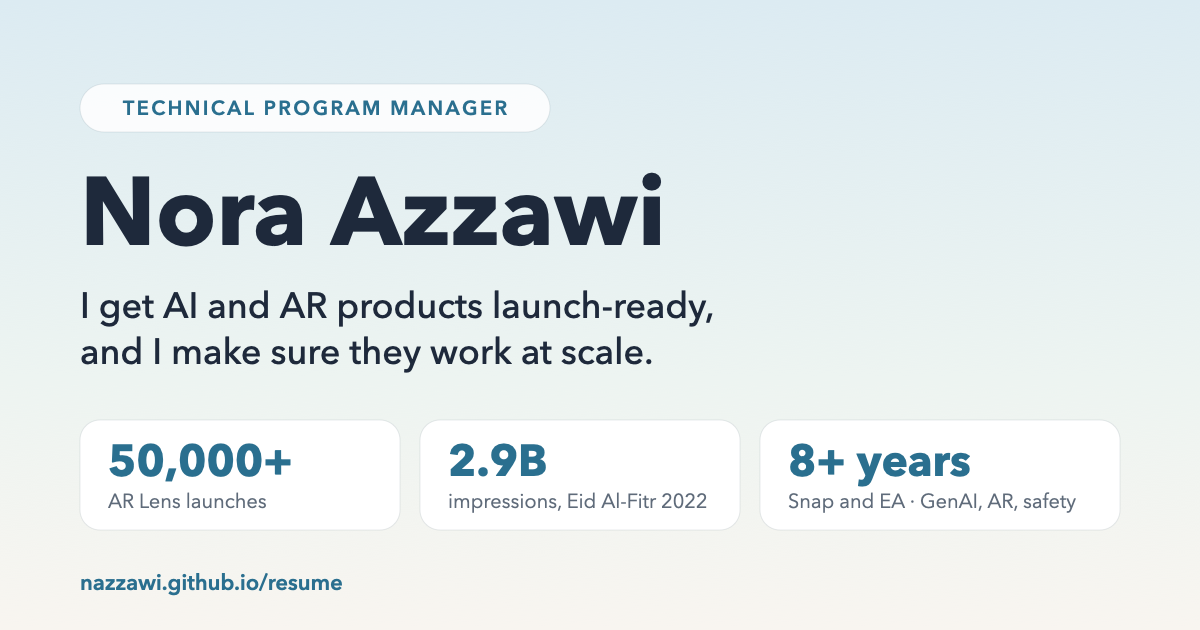
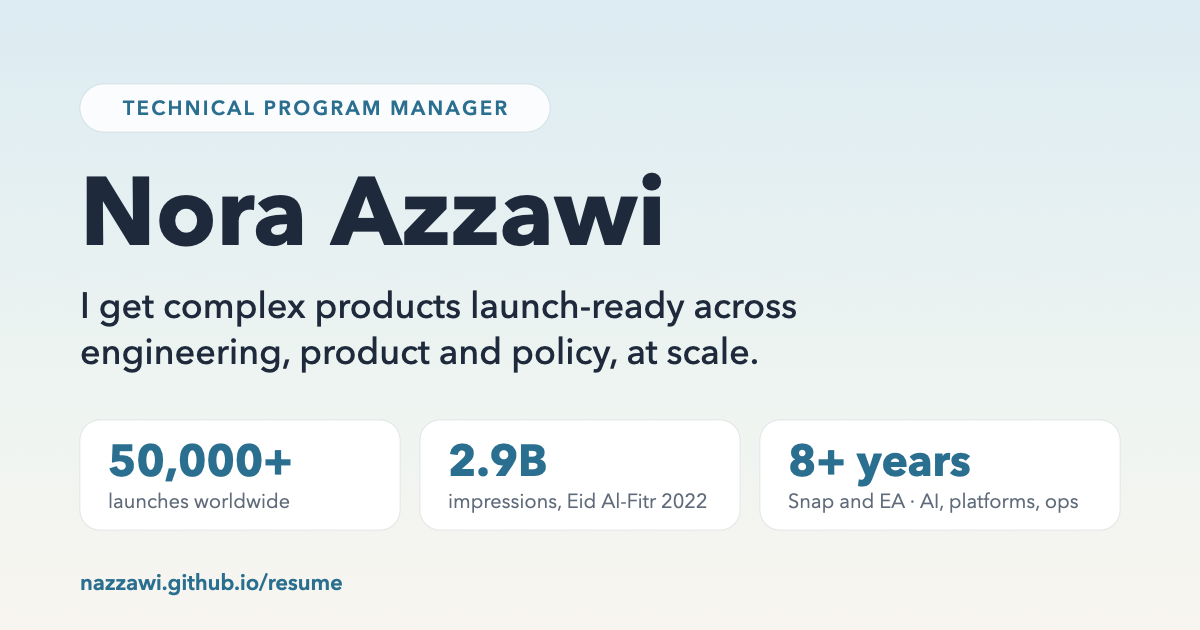
Add files via upload

diff --git a/index.html b/index.html
@@ -4,7 +4,7 @@
 <meta charset="utf-8">
 <meta name="viewport" content="width=device-width, initial-scale=1, viewport-fit=cover">
 <title>Nora Azzawi · Technical Program Manager</title>
-<meta name="description" content="Technical Program Manager with 8+ years at Snap and EA. AR launches, GenAI safety, advertiser programs and content moderation, with the stories behind them.">
+<meta name="description" content="Technical Program Manager with 8+ years at Snap and EA: product and platform launches, ML and GenAI, internal tooling, advertiser programs and operations, with the stories behind them.">
 <link rel="canonical" href="https://nazzawi.github.io/resume/">
 
 <!-- Link previews (LinkedIn, Slack, iMessage, email) -->
@@ -12,19 +12,19 @@
 <meta property="og:site_name" content="Nora Azzawi">
 <meta property="og:url" content="https://nazzawi.github.io/resume/">
 <meta property="og:title" content="Nora Azzawi · Technical Program Manager">
-<meta property="og:description" content="Technical Program Manager with 8+ years at Snap and EA. AR launches, GenAI safety, advertiser programs and content moderation, with the stories behind them.">
-<meta property="og:image" content="https://nazzawi.github.io/resume/og-image.png">
+<meta property="og:description" content="Technical Program Manager with 8+ years at Snap and EA: product and platform launches, ML and GenAI, internal tooling, advertiser programs and operations, with the stories behind them.">
+<meta property="og:image" content="https://nazzawi.github.io/resume/og-image.png?v=2">
 <meta property="og:image:width" content="1200">
 <meta property="og:image:height" content="630">
-<meta property="og:image:alt" content="Nora Azzawi, Technical Program Manager. 50,000+ AR Lens launches, 2.9B impressions on Eid Al-Fitr 2022, 8+ years at Snap and EA.">
+<meta property="og:image:alt" content="Nora Azzawi, Technical Program Manager. 50,000+ launches worldwide, 2.9B impressions on Eid Al-Fitr 2022, 8+ years at Snap and EA.">
 <meta name="twitter:card" content="summary_large_image">
 <meta name="twitter:title" content="Nora Azzawi · Technical Program Manager">
-<meta name="twitter:description" content="Technical Program Manager with 8+ years at Snap and EA. AR launches, GenAI safety, advertiser programs and content moderation.">
-<meta name="twitter:image" content="https://nazzawi.github.io/resume/og-image.png">
+<meta name="twitter:description" content="Technical Program Manager with 8+ years at Snap and EA: product and platform launches, ML and GenAI, internal tooling, advertiser programs and operations.">
+<meta name="twitter:image" content="https://nazzawi.github.io/resume/og-image.png?v=2">
 <link rel="preconnect" href="https://fonts.googleapis.com">
 <link rel="preconnect" href="https://fonts.gstatic.com" crossorigin>
 <link rel="stylesheet" href="https://fonts.googleapis.com/css2?family=Outfit:wght@500;600;700&family=Plus+Jakarta+Sans:ital,wght@0,400;0,500;0,600;1,400&display=swap">
-<link rel="stylesheet" href="styles.css?v=2026-11-07b">
+<link rel="stylesheet" href="styles.css?v=2026-11-07c">
 </head>
 <body>
 
@@ -33,8 +33,8 @@
     <div class="hero-text">
       <span class="pill">Technical Program Manager · Los Angeles</span>
       <h1>Nora Azzawi</h1>
-      <p class="thesis">I'm a Technical Program Manager. I get AI and AR products launch-ready, and I make sure they work at scale.</p>
-      <p class="sub">8+ years at Snap and EA. At Snap I ran AR launches, GenAI safety, advertiser programs and content moderation for Lenses, across mobile, web and Spectacles. At EA I managed the design programs. This site is my resume, with the stories behind it.</p>
+      <p class="thesis">I'm a Technical Program Manager. I get complex products launch-ready across engineering, product and policy, and I make sure they work at scale.</p>
+      <p class="sub">8+ years at Snap and EA leading cross-functional programs: product and platform launches, ML and GenAI systems, internal tooling, advertiser programs, vendor operations and compliance. Most of that work was in AR and AI at Snap, and at EA I managed the design programs. This site is my resume, with the stories behind it.</p>
       <div class="cta">
         <a class="btn" href="#experience">See my experience</a>
         <a class="btn ghost" href="#ask">Ask me an interview question</a>
@@ -42,11 +42,11 @@
     </div>
     <dl class="facts" aria-label="Highlights">
       <div><dt>50,000+</dt><dd>AR Lens launches all over the world, covering holidays &amp; creative moments alike</dd></div>
-      <div><dt>400+</dt><dd>Lens Studio and new AR tech launches, across Eng, Ops, Data Science, Legal and Policy</dd></div>
+      <div><dt>400+</dt><dd>platform and new technology launches (creator tools, AR glasses, GenAI) across Eng, Ops, Data Science, Legal and Policy</dd></div>
       <div><dt>2.9B</dt><dd>impressions on Eid Al-Fitr 2022, Snap AR's biggest single event</dd></div>
       <div><dt>50M+</dt><dd>DAU growth from the first-ever Hijab Lens, which I conceived and launched</dd></div>
       <div><dt>100+</dt><dd>AR Ad campaigns for brands like Nike, Disney, Netflix and L'Oréal</dd></div>
-      <div><dt>50+</dt><dd>vendor moderators managed across 3 time zones</dd></div>
+      <div><dt>50+</dt><dd>person vendor team managed across 3 time zones</dd></div>
     </dl>
   </div>
 </header>
@@ -55,9 +55,9 @@
   <div class="inner">
     <a href="#skills">TPM skills</a>
     <a href="#experience">Experience</a>
-    <a href="#launches">Launches</a>
     <a href="#ask">Ask me</a>
     <a href="#work">Case studies</a>
+    <a href="#launches">Launches</a>
     <a href="#timeline">Timeline</a>
     <a href="#principles">How I work</a>
     <a href="#contact">Contact</a>
@@ -79,21 +79,21 @@
       <ul class="chips2">
         <li>Technical program management</li><li>SDLC and product development lifecycle</li><li>Roadmapping and project planning</li><li>Product launch management</li><li>Agile and sprint planning</li><li>Capacity and resource planning</li>
       </ul>
-      <p class="proof">50,000+ Lens launches, 400+ Lens Studio and new AR tech launches, a multi-year AR roadmap across mobile, web and Spectacles.</p>
+      <p class="proof">50,000+ launches, 400+ platform and new technology launches, and a multi-year product roadmap across mobile, web and AR glasses.</p>
     </div>
     <div class="card sk">
       <h3><span class="dot d-mint"></span>Technical execution</h3>
       <ul class="chips2">
         <li>Requirements gathering</li><li>Feature spec authoring</li><li>Managing engineering builds</li><li>ML and LLM evaluation</li><li>GenAI guardrails</li><li>Content understanding and taxonomy</li><li>SQL and Looker dashboards</li>
       </ul>
-      <p class="proof">Snap's GenAI Suite, a risk-tiered evaluation framework for an integrity model, and LLM moderation.</p>
+      <p class="proof">Shipped a GenAI product suite, built a risk-tiered evaluation framework for an ML model, and automated content review with LLMs.</p>
     </div>
     <div class="card sk">
       <h3><span class="dot d-sand"></span>Cross-functional leadership</h3>
       <ul class="chips2">
         <li>Stakeholder alignment</li><li>Executive reporting</li><li>Risk and escalation management</li><li>Vendor and contingent workforce management</li><li>Hiring and training</li>
       </ul>
-      <p class="proof">Aligned Engineering, Product, Data Science, Legal and Policy; presented to Snap's CTO; managed 50+ vendor moderators.</p>
+      <p class="proof">Aligned Engineering, Product, Data Science, Legal and Policy; presented to Snap's CTO; managed a 50+ person vendor team.</p>
     </div>
     <div class="card sk">
       <h3><span class="dot d-rose"></span>Metrics, risk and compliance</h3>
@@ -134,13 +134,13 @@
     </header>
     <div class="groups">
       <div class="grp" data-g="launch">
-        <h4><span class="dot d-sky"></span>Program delivery: AR launches and roadmap</h4>
+        <h4><span class="dot d-sky"></span>Program delivery: launches and roadmap</h4>
         <ul>
-          <li>Partnered on <b>50,000+ Lens launches</b> globally, driving billions of impressions.</li>
-          <li>Coordinated delivery for <b>400+ Lens Studio and new AR tech launches</b> across Engineering, Ops, Data Science, Legal and Policy.</li>
-          <li>Co-managed the <b>multi-year AR roadmap</b> across mobile, web and Spectacles AR glasses; led sprint planning across Engineering and Ops.</li>
-          <li>Partnered with the <b>Spectacles</b> team to build software and moderation functionality into the hardware product.</li>
-          <li>Operationalized feature iterations for <b>Lens Studio</b>, the tool creators use to build Lenses.</li>
+          <li>Partnered on <b>50,000+ AR product launches</b> (Lenses, Snapchat's camera effects) globally, driving billions of impressions.</li>
+          <li>Coordinated delivery for <b>400+ platform and new technology launches</b> (Lens Studio creator tools, Spectacles AR glasses, GenAI) across Engineering, Ops, Data Science, Legal and Policy.</li>
+          <li>Co-managed a <b>multi-year product roadmap</b> across mobile, web and AR glasses (Spectacles); led sprint planning across Engineering and Ops.</li>
+          <li>Partnered with the <b>hardware team</b> (Spectacles) to build software and moderation functionality into a hardware product.</li>
+          <li>Operationalized feature iterations for <b>Lens Studio</b>, Snap's desktop creator tool.</li>
           <li>Authored <b>feature specs</b> and gathered requirements from engineering teams, translating business needs into technical direction.</li>
           <li>Conceived and drove the go-to-market launch of the <b>first-ever Hijab Lens</b>, driving 50M+ DAU growth. <a href="#story-origin">Story</a></li>
           <li>Drove the global launch of <b>Eid Al-Fitr 2022</b>: 2.9B impressions, Snap AR's biggest single event. <a href="#story-eid">Story</a></li>
@@ -148,23 +148,23 @@
       </div>
 
       <div class="grp" data-g="ai">
-        <h4><span class="dot d-mint"></span>Technical programs: GenAI and ML</h4>
+        <h4><span class="dot d-mint"></span>Technical programs: ML and GenAI</h4>
         <ul>
-          <li>Partnered with ML, Data Science, Engineering, Legal and Policy to ship <b>Snap's GenAI Suite</b>; AR moderation subject-matter expert for all Lens types, including ChatGPT Lenses and Easy Lens.</li>
+          <li>Partnered with ML, Data Science, Engineering, Legal and Policy to ship <b>Snap's GenAI Suite</b>; content safety subject-matter expert across all product types, including ChatGPT-powered Lenses and Easy Lens.</li>
           <li>Defined <b>GenAI guardrails</b> with product managers and engineers: model parameters and image hash systems for compliant AI.</li>
-          <li>Led evaluation of the Lens content understanding <b>integrity model</b>; created a risk-tiered evaluation framework.</li>
+          <li>Led evaluation of an <b>ML content integrity model</b>; created a risk-tiered evaluation framework.</li>
           <li>Iterated on <b>LLM moderation</b> to automate content review, defining model behavior and controls to reduce manual review.</li>
           <li>Worked hands-on with <b>model training</b>: pulled datasets, QA'd them manually, and partnered with engineers to improve accuracy.</li>
-          <li>Got moderation ready for <b>Easy Lens</b>, a standalone GenAI Lens app. <a href="#story-easylens">Story</a></li>
+          <li>Led moderation readiness for <b>Easy Lens</b>, a standalone GenAI app. <a href="#story-easylens">Story</a></li>
         </ul>
       </div>
 
       <div class="grp" data-g="ai">
         <h4><span class="dot d-mint"></span>Technical programs: platforms, tooling and engineering</h4>
         <ul>
-          <li>Established and administered a net-new <b>Jira space for AR Moderation</b>, managing 200+ tickets across engineering and moderation workstreams.</li>
-          <li>Co-designed and documented the <b>Lens review pipeline</b>: automated checks, system integrations and manual review queue routing.</li>
-          <li>Owned the <b>AR content understanding platform</b> end to end, improving UI/UX and backend performance at scale. <a href="#story-platforms">Story</a></li>
+          <li>Stood up and administered a new <b>Jira program space</b>, managing 200+ tickets across engineering and operations workstreams.</li>
+          <li>Co-designed and documented the <b>content review pipeline</b>: automated checks, system integrations and manual review queue routing.</li>
+          <li>Owned the <b>content understanding platform</b> end to end, improving UI/UX and backend performance at scale. <a href="#story-platforms">Story</a></li>
           <li>Partnered with Engineering to <b>redesign the internal review tool</b> UI/UX, defining functionality and testing interfaces.</li>
           <li>Identified, escalated and drove resolution of <b>critical bugs</b> across internal review tools, Lens Studio and the app.</li>
         </ul>
@@ -177,7 +177,7 @@
           <li>Owned the <b>Advertiser Content Understanding platform</b> end to end: tooling, OKRs, taxonomy, and reporting to Brand Strategy and Sales. <a href="#story-platforms">Story</a></li>
           <li>Configured <b>audience targeting</b> (age, gender, country, device) in proprietary tools; reported spend, engagement and revenue.</li>
           <li>Managed campaigns in the <b>campaign tool</b>, making the technical adjustments needed for Lenses to pass review and go live, and un-stuck advertiser Lenses stuck in review.</li>
-          <li>Managed <b>500+ Lens campaigns</b> across major cultural events and global holidays, driving billions of impressions.</li>
+          <li>Managed <b>500+ AR campaigns</b> across major cultural events and global holidays, driving billions of impressions.</li>
         </ul>
       </div>
 
@@ -185,21 +185,21 @@
         <h4><span class="dot d-rose"></span>Risk, compliance and trust and safety</h4>
         <ul>
           <li>Primary <b>escalation point</b> for complex content decisions, aligning Legal, Policy, Engineering and teams company-wide.</li>
-          <li>Partnered with Policy to keep <b>AR moderation policies</b> current, escalating edge cases and building them into review workflows.</li>
+          <li>Partnered with Policy to keep <b>content moderation policies</b> current, escalating edge cases and building them into review workflows.</li>
           <li>Partnered with Legal on <b>GDPR</b> workflows, user data requests and under-13 (<b>COPPA</b>) compliance, turning them into processes.</li>
-          <li>Partnered on Lens builds to ensure <b>equitable representation</b> and bias-free, ethical product development.</li>
+          <li>Partnered on product builds to ensure <b>equitable representation</b> and bias-free, ethical product development.</li>
         </ul>
       </div>
 
       <div class="grp" data-g="ops">
         <h4><span class="dot d-sky"></span>Metrics, OKRs and operations</h4>
         <ul>
-          <li>Owned and reported <b>OKRs</b> for AR Review Quality, Turnaround Time, Handling Time and Capacity in weekly business reviews.</li>
+          <li>Owned and reported <b>OKRs</b> for Review Quality, Turnaround Time, Handling Time and Capacity in weekly business reviews.</li>
           <li>Ran <b>Time and Motion studies</b> to assess OKR attainment and recalibrate targets.</li>
-          <li>Presented AR moderation capacity and automation capabilities to <b>Snap's CTO</b> while supporting the AR product team on the Easy Lens launch.</li>
-          <li>Managed <b>50+ vendor moderators</b> across 3 time zones: hiring, onboarding, QA calls and performance management.</li>
+          <li>Presented moderation capacity and automation capabilities to <b>Snap's CTO</b> ahead of a GenAI product launch (Easy Lens).</li>
+          <li>Managed a <b>50+ person vendor team</b> across 3 time zones: hiring, onboarding, QA calls and performance management.</li>
           <li>Tracked <b>cost per task</b> and vendor headcount, and supported staffing cost forecasting for externally staffed review queues.</li>
-          <li>Worked with Data Science to analyze Lens metrics in <b>Looker</b>, building custom dashboards for stakeholders.</li>
+          <li>Worked with Data Science to analyze product metrics in <b>Looker</b>, building custom dashboards for stakeholders.</li>
         </ul>
       </div>
 
@@ -249,40 +249,6 @@
       <li><div class="ed"><b>B.A., History and International Development</b><div class="inst">University of California, Los Angeles</div></div><span class="dt">2016</span></li>
     </ul>
   </article>
-</section>
-
-<!-- LAUNCHES -->
-<section id="launches">
-  <div class="sh">
-    <h2>Launches I worked on</h2>
-    <p>Public Snap AR launches I worked on as part of the AR team, from Lens Studio's first release to GenAI and Spectacles. Each one links to the public announcement.</p>
-  </div>
-  <div class="lfilters" role="group" aria-label="Filter launches">
-    <button type="button" class="lf on" data-k="all" aria-pressed="true">All 16</button>
-    <button type="button" class="lf" data-k="genai" aria-pressed="false">GenAI</button>
-    <button type="button" class="lf" data-k="platform" aria-pressed="false">Lens Studio</button>
-    <button type="button" class="lf" data-k="hw" aria-pressed="false">Spectacles</button>
-    <button type="button" class="lf" data-k="culture" aria-pressed="false">Cultural moments</button>
-    <button type="button" class="lf" data-k="ads" aria-pressed="false">Advertisers</button>
-  </div>
-  <ol class="launches">
-    <li data-k="ads"><span class="ld">Apr 2025</span><span class="lk k-ads">Advertisers</span><h3>Sponsored AI Lenses</h3><p>GenAI Lenses as an ad format for brands.</p><a href="https://newsroom.snap.com/sponsored-ai-lenses" target="_blank" rel="noopener">Snap Newsroom ↗</a></li>
-    <li data-k="genai"><span class="ld">2025</span><span class="lk k-genai">GenAI</span><h3>Easy Lens standalone app</h3><p>Easy Lens moves into its own app and the web.</p><a href="https://www.engadget.com/social-media/snapchat-now-has-a-standalone-app-for-making-gen-ai-augmented-reality-effects-170036214.html" target="_blank" rel="noopener">Engadget ↗</a></li>
-    <li data-k="genai"><span class="ld">Early 2025</span><span class="lk k-genai">GenAI</span><h3>AI Video Lenses</h3><p>Snap's first generative AI Lenses for video.</p><a href="https://www.socialmediatoday.com/news/snapchat-launches-video-ai-lenses/742361/" target="_blank" rel="noopener">Social Media Today ↗</a></li>
-    <li data-k="hw"><span class="ld">Sep 2024</span><span class="lk k-hw">Spectacles</span><h3>Fifth-generation Spectacles and Snap OS</h3><p>Standalone, see-through AR glasses for developers.</p><a href="https://newsroom.snap.com/sps-2024-spectacles-snapos" target="_blank" rel="noopener">Snap Newsroom ↗</a></li>
-    <li data-k="genai"><span class="ld">Sep 2024</span><span class="lk k-genai">GenAI</span><h3>Easy Lens</h3><p>Create a Lens by describing it in plain words.</p><a href="https://newsroom.snap.com/sps-2024-new-ai-powered-tools" target="_blank" rel="noopener">Snap Newsroom ↗</a></li>
-    <li data-k="platform"><span class="ld">Jun 2024</span><span class="lk k-platform">Lens Studio</span><h3>Lens Studio 5.0 and the GenAI Suite</h3><p>A rebuilt Lens Studio with generative AI tools for creators.</p><a href="https://ar.snap.com/blog/awe-recap-2024" target="_blank" rel="noopener">Snap AR ↗</a></li>
-    <li data-k="genai"><span class="ld">2023–24</span><span class="lk k-genai">GenAI</span><h3>Dreams, AI Pets and AI Lenses</h3><p>GenAI experiences across the Snapchat camera.</p><a href="https://newsroom.snap.com/new-ar-experiences-powered-by-gen-ai" target="_blank" rel="noopener">Snap Newsroom ↗</a></li>
-    <li data-k="genai"><span class="ld">Nov 2023</span><span class="lk k-genai">GenAI</span><h3>ChatGPT in Lenses</h3><p>ChatGPT Remote API for Lenses, and the Lens Studio 5.0 beta.</p><a href="https://newsroom.snap.com/lens-fest-2023" target="_blank" rel="noopener">Snap Newsroom ↗</a></li>
-    <li data-k="genai"><span class="ld">Apr 2023</span><span class="lk k-genai">GenAI</span><h3>First generative AI Lenses</h3><p>Snap's first GenAI Lenses, starting with the Cosmic Lens.</p><a href="https://techcrunch.com/2023/04/19/snapchat-launches-ar-lenses-powered-by-generative-ai-starting-with-a-new-cosmic-lens" target="_blank" rel="noopener">TechCrunch ↗</a></li>
-    <li data-k="culture"><span class="ld">Feb 2023</span><span class="lk k-culture">Cultural</span><h3>Black History Month Lenses</h3><p>Lenses from Black AR creators in the Snap Lens Network.</p><a href="https://newsroom.snap.com/black-history-month-2023" target="_blank" rel="noopener">Snap Newsroom ↗</a></li>
-    <li data-k="culture"><span class="ld">2022</span><span class="lk k-culture">Cultural</span><h3>AR Ramadan Mall</h3><p>An AR shopping experience for Ramadan in the Middle East.</p><a href="https://thebrandberries.com/?p=19895" target="_blank" rel="noopener">The Brand Berries ↗</a></li>
-    <li data-k="culture"><span class="ld">Apr 2022</span><span class="lk k-culture">Cultural</span><h3>Ramadan age Lens</h3><p>An AR Lens for sharing Ramadan memories across the Middle East.</p><a href="https://thebrandberries.com/?p=11369" target="_blank" rel="noopener">The Brand Berries ↗</a></li>
-    <li data-k="hw"><span class="ld">May 2021</span><span class="lk k-hw">Spectacles</span><h3>Next-generation Spectacles</h3><p>Snap's first AR display glasses, built for creators.</p><a href="https://newsroom.snap.com/introducing-the-next-generation-of-spectacles" target="_blank" rel="noopener">Snap Newsroom ↗</a></li>
-    <li data-k="platform"><span class="ld">Jun 2020</span><span class="lk k-platform">Lens Studio</span><h3>Lens Studio 3.0 and SnapML</h3><p>Bring-your-own ML models, hand gestures and foot tracking.</p><a href="https://www.businesswire.com/news/home/20200611005152/en/Snap-Announces-New-Camera-Augmented-Reality-Experiences" target="_blank" rel="noopener">Business Wire ↗</a></li>
-    <li data-k="culture"><span class="ld">Jun 2020</span><span class="lk k-culture">Cultural</span><h3>Pride Month Lenses</h3><p>Pride Lenses made with Pride Media and Official Lens Creators.</p><a href="https://9to5mac.com/2020/06/17/snapchat-pride-month-lenses/" target="_blank" rel="noopener">9to5Mac ↗</a></li>
-    <li data-k="platform"><span class="ld">Dec 2017</span><span class="lk k-platform">Lens Studio</span><h3>Lens Studio launches</h3><p>Snap's free desktop tool for anyone to build AR Lenses.</p><a href="https://siliconangle.com/2017/12/14/snap-launches-lens-studio-augmented-reality-creator-snapchat/" target="_blank" rel="noopener">SiliconANGLE ↗</a></li>
-  </ol>
 </section>
 
 <!-- ASK ME -->
@@ -468,6 +434,40 @@
   </div>
 </section>
 
+<!-- LAUNCHES -->
+<section id="launches">
+  <div class="sh">
+    <h2>Launches I worked on</h2>
+    <p>Public Snap AR launches I worked on as part of the AR team, from Lens Studio's first release to GenAI and Spectacles. Each one links to the public announcement.</p>
+  </div>
+  <div class="lfilters" role="group" aria-label="Filter launches">
+    <button type="button" class="lf on" data-k="all" aria-pressed="true">All 16</button>
+    <button type="button" class="lf" data-k="genai" aria-pressed="false">GenAI</button>
+    <button type="button" class="lf" data-k="platform" aria-pressed="false">Lens Studio</button>
+    <button type="button" class="lf" data-k="hw" aria-pressed="false">Spectacles</button>
+    <button type="button" class="lf" data-k="culture" aria-pressed="false">Cultural moments</button>
+    <button type="button" class="lf" data-k="ads" aria-pressed="false">Advertisers</button>
+  </div>
+  <ol class="launches">
+    <li data-k="ads"><span class="ld">Apr 2025</span><span class="lk k-ads">Advertisers</span><h3>Sponsored AI Lenses</h3><p>GenAI Lenses as an ad format for brands.</p><a href="https://newsroom.snap.com/sponsored-ai-lenses" target="_blank" rel="noopener">Snap Newsroom ↗</a></li>
+    <li data-k="genai"><span class="ld">2025</span><span class="lk k-genai">GenAI</span><h3>Easy Lens standalone app</h3><p>Easy Lens moves into its own app and the web.</p><a href="https://www.engadget.com/social-media/snapchat-now-has-a-standalone-app-for-making-gen-ai-augmented-reality-effects-170036214.html" target="_blank" rel="noopener">Engadget ↗</a></li>
+    <li data-k="genai"><span class="ld">Early 2025</span><span class="lk k-genai">GenAI</span><h3>AI Video Lenses</h3><p>Snap's first generative AI Lenses for video.</p><a href="https://www.socialmediatoday.com/news/snapchat-launches-video-ai-lenses/742361/" target="_blank" rel="noopener">Social Media Today ↗</a></li>
+    <li data-k="hw"><span class="ld">Sep 2024</span><span class="lk k-hw">Spectacles</span><h3>Fifth-generation Spectacles and Snap OS</h3><p>Standalone, see-through AR glasses for developers.</p><a href="https://newsroom.snap.com/sps-2024-spectacles-snapos" target="_blank" rel="noopener">Snap Newsroom ↗</a></li>
+    <li data-k="genai"><span class="ld">Sep 2024</span><span class="lk k-genai">GenAI</span><h3>Easy Lens</h3><p>Create a Lens by describing it in plain words.</p><a href="https://newsroom.snap.com/sps-2024-new-ai-powered-tools" target="_blank" rel="noopener">Snap Newsroom ↗</a></li>
+    <li data-k="platform"><span class="ld">Jun 2024</span><span class="lk k-platform">Lens Studio</span><h3>Lens Studio 5.0 and the GenAI Suite</h3><p>A rebuilt Lens Studio with generative AI tools for creators.</p><a href="https://ar.snap.com/blog/awe-recap-2024" target="_blank" rel="noopener">Snap AR ↗</a></li>
+    <li data-k="genai"><span class="ld">2023–24</span><span class="lk k-genai">GenAI</span><h3>Dreams, AI Pets and AI Lenses</h3><p>GenAI experiences across the Snapchat camera.</p><a href="https://newsroom.snap.com/new-ar-experiences-powered-by-gen-ai" target="_blank" rel="noopener">Snap Newsroom ↗</a></li>
+    <li data-k="genai"><span class="ld">Nov 2023</span><span class="lk k-genai">GenAI</span><h3>ChatGPT in Lenses</h3><p>ChatGPT Remote API for Lenses, and the Lens Studio 5.0 beta.</p><a href="https://newsroom.snap.com/lens-fest-2023" target="_blank" rel="noopener">Snap Newsroom ↗</a></li>
+    <li data-k="genai"><span class="ld">Apr 2023</span><span class="lk k-genai">GenAI</span><h3>First generative AI Lenses</h3><p>Snap's first GenAI Lenses, starting with the Cosmic Lens.</p><a href="https://techcrunch.com/2023/04/19/snapchat-launches-ar-lenses-powered-by-generative-ai-starting-with-a-new-cosmic-lens" target="_blank" rel="noopener">TechCrunch ↗</a></li>
+    <li data-k="culture"><span class="ld">Feb 2023</span><span class="lk k-culture">Cultural</span><h3>Black History Month Lenses</h3><p>Lenses from Black AR creators in the Snap Lens Network.</p><a href="https://newsroom.snap.com/black-history-month-2023" target="_blank" rel="noopener">Snap Newsroom ↗</a></li>
+    <li data-k="culture"><span class="ld">2022</span><span class="lk k-culture">Cultural</span><h3>AR Ramadan Mall</h3><p>An AR shopping experience for Ramadan in the Middle East.</p><a href="https://thebrandberries.com/?p=19895" target="_blank" rel="noopener">The Brand Berries ↗</a></li>
+    <li data-k="culture"><span class="ld">Apr 2022</span><span class="lk k-culture">Cultural</span><h3>Ramadan age Lens</h3><p>An AR Lens for sharing Ramadan memories across the Middle East.</p><a href="https://thebrandberries.com/?p=11369" target="_blank" rel="noopener">The Brand Berries ↗</a></li>
+    <li data-k="hw"><span class="ld">May 2021</span><span class="lk k-hw">Spectacles</span><h3>Next-generation Spectacles</h3><p>Snap's first AR display glasses, built for creators.</p><a href="https://newsroom.snap.com/introducing-the-next-generation-of-spectacles" target="_blank" rel="noopener">Snap Newsroom ↗</a></li>
+    <li data-k="platform"><span class="ld">Jun 2020</span><span class="lk k-platform">Lens Studio</span><h3>Lens Studio 3.0 and SnapML</h3><p>Bring-your-own ML models, hand gestures and foot tracking.</p><a href="https://www.businesswire.com/news/home/20200611005152/en/Snap-Announces-New-Camera-Augmented-Reality-Experiences" target="_blank" rel="noopener">Business Wire ↗</a></li>
+    <li data-k="culture"><span class="ld">Jun 2020</span><span class="lk k-culture">Cultural</span><h3>Pride Month Lenses</h3><p>Pride Lenses made with Pride Media and Official Lens Creators.</p><a href="https://9to5mac.com/2020/06/17/snapchat-pride-month-lenses/" target="_blank" rel="noopener">9to5Mac ↗</a></li>
+    <li data-k="platform"><span class="ld">Dec 2017</span><span class="lk k-platform">Lens Studio</span><h3>Lens Studio launches</h3><p>Snap's free desktop tool for anyone to build AR Lenses.</p><a href="https://siliconangle.com/2017/12/14/snap-launches-lens-studio-augmented-reality-creator-snapchat/" target="_blank" rel="noopener">SiliconANGLE ↗</a></li>
+  </ol>
+</section>
+
 <!-- TIMELINE -->
 <section id="timeline">
   <div class="sh">
@@ -603,6 +603,6 @@
 
 <footer class="gut"><div class="inner">Nora Azzawi · Los Angeles · Product names and numbers are from my work at Snap and EA. · © 2026 Nora Azzawi. All rights reserved. · <a href="#legal">Legal notice</a></div></footer>
 
-<script src="script.js?v=2026-11-07b"></script>
+<script src="script.js?v=2026-11-07c"></script>
 </body>
 </html>
